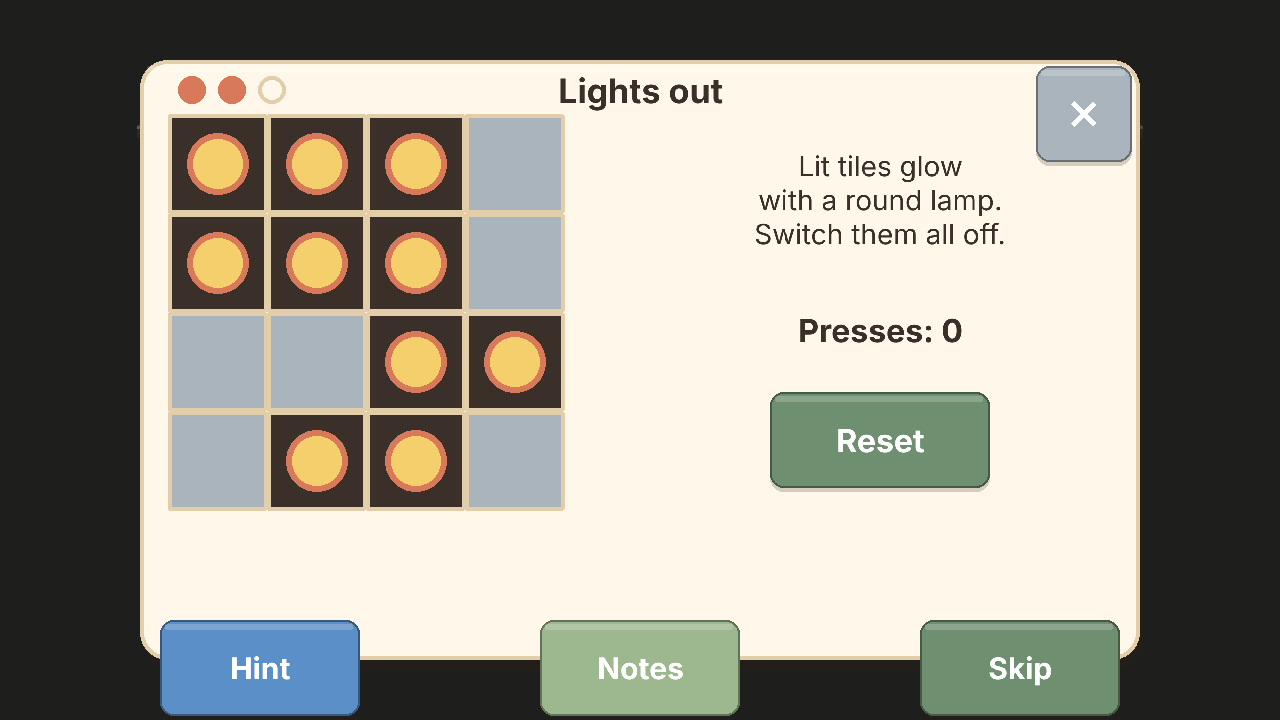
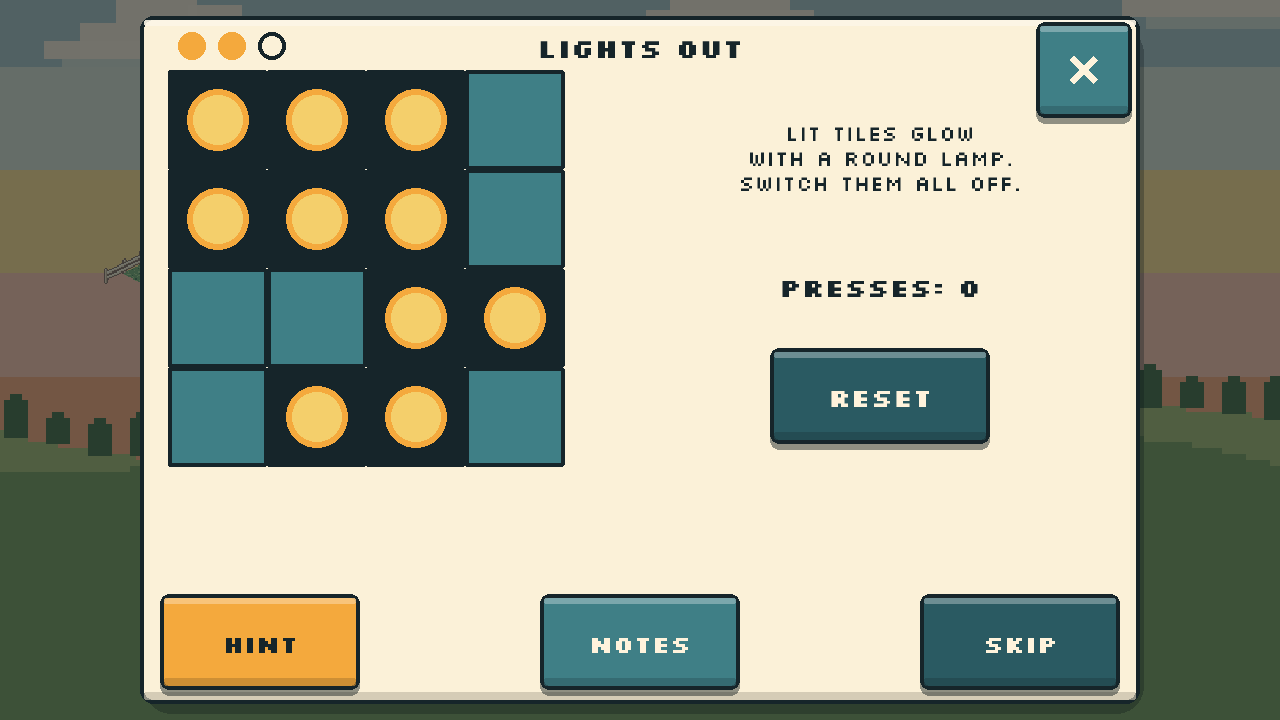
AI-1: puzzle UI skin (pixel font, theme, bar inside panel, 55% dim), 11 puzzle shots + play sheet shot, dist limit 2560 + boot payload report

diff --git a/src/puzzles/ui.ts b/src/puzzles/ui.ts
@@ -1,0 +1,102 @@
+import Phaser from 'phaser';
+import { PAL as BASE, hex, rrect, shade } from '../art/palette';
+import type { Btn, BtnOpts, G, TextOpts } from '../art/palette';
+import { COLOR, FONT } from '../ui/theme';
+
+/**
+ * Puzzle UI kit: the same names the puzzle scenes always used (PAL, makeText, makeButton, panelBox), but drawn with
+ * the game's pixel font and the teal/amber theme from src/ui/theme.ts instead of the old system-font look.
+ * Only the chrome colours are re-mapped; piece colours (red, blue, yellow, green, rose...) stay readable and distinct.
+ */
+export { circle, line, poly, rotPts, rrect, shade, hex } from '../art/palette';
+export type { Btn, G } from '../art/palette';
+
+export const PAL = {
+  ...BASE,
+  ink: COLOR.ink,
+  inkSoft: 0x4d6a6c,
+  cream: COLOR.cream,
+  panel: COLOR.paper,
+  panelEdge: COLOR.plateEdge,
+  terracotta: COLOR.amber,
+  steel: COLOR.teal,
+  sageDark: COLOR.tealLo,
+  sage: COLOR.tealHi,
+  shadow: 0x0a1518,
+} as const;
+
+/** Silkscreen runs wide, so every size is scaled to keep the existing wrap widths and layouts. */
+const TEXT_SCALE = 0.8;
+
+export function makeText(scene: Phaser.Scene, x: number, y: number, str: string, size: number, color: number = PAL.ink, o: TextOpts = {}): Phaser.GameObjects.Text {
+  const style: Phaser.Types.GameObjects.Text.TextStyle = {
+    fontFamily: FONT, fontSize: `${Math.round(size * TEXT_SCALE)}px`, color: hex(color),
+    fontStyle: o.bold ? 'bold' : 'normal', align: o.align ?? 'left', resolution: 2,
+  };
+  if (o.wrap) style.wordWrap = { width: o.wrap };
+  if (o.padX || o.padY) style.padding = { x: o.padX ?? 0, y: o.padY ?? 0 };
+  const t = new Phaser.GameObjects.Text(scene, x, y, str, style);
+  t.setOrigin(o.ox ?? 0, o.oy ?? 0);
+  scene.add.existing(t);
+  return t;
+}
+
+/** Flat pixel-style plate: dark outline, lit top edge, darker underside. Corner radius is capped so big panels stay crisp. */
+export function panelBox(g: G, x: number, y: number, w: number, h: number, r: number, fill: number, outline: number = PAL.panelEdge, lw = 4): void {
+  const rad = Math.min(r, 14);
+  rrect(g, x, y, w, h, rad, outline);
+  rrect(g, x + lw, y + lw, w - lw * 2, h - lw * 2, Math.max(0, rad - lw), fill);
+  rrect(g, x + lw, y + lw, w - lw * 2, 6, 2, shade(fill, 0.35), 0.9);
+  rrect(g, x + lw, y + h - lw - 8, w - lw * 2, 8, 2, shade(fill, -0.22), 0.7);
+}
+
+const lum = (c: number): number => (0.299 * ((c >> 16) & 255) + 0.587 * ((c >> 8) & 255) + 0.114 * (c & 255)) / 255;
+
+/** Button with a hit area of at least 96 x 96 game px (48 dp) around its centre, whatever size is drawn. */
+export function makeButton(scene: Phaser.Scene, x: number, y: number, w: number, h: number, label: string, onTap: () => void, o: BtnOpts = {}): Btn {
+  const fill = o.fill ?? PAL.terracotta;
+  const ink = o.color ?? (lum(fill) > 0.55 ? PAL.ink : PAL.cream);
+  const glyph = o.glyph ?? 'none';
+  const g = scene.add.graphics();
+  const text = makeText(scene, x, y, label, o.size ?? 24, ink, { bold: true, ox: 0.5, oy: 0.5, align: 'center' });
+  let enabled = true;
+  let down = false;
+  const draw = (): void => {
+    const dy = down ? 4 : 0;
+    g.clear();
+    g.fillStyle(PAL.shadow, 0.45);
+    g.fillRoundedRect(x - w / 2, y - h / 2 + 6, w, h, 10);
+    panelBox(g, x - w / 2, y - h / 2 + dy, w, h, 10, fill);
+    g.lineStyle(6, ink, 1);
+    const k = 12;
+    if (glyph === 'close') {
+      g.lineBetween(x - k, y - k + dy, x + k, y + k + dy);
+      g.lineBetween(x + k, y - k + dy, x - k, y + k + dy);
+    } else if (glyph === 'left' || glyph === 'right') {
+      const s = glyph === 'left' ? -1 : 1;
+      g.fillStyle(ink, 1);
+      g.fillTriangle(x - s * 12, y - 14 + dy, x - s * 12, y + 14 + dy, x + s * 12, y + dy);
+    }
+    text.setY(y + dy);
+  };
+  draw();
+  g.setData('labelText', text); // lets the e2e hook name this button by its label
+  const hw = Math.max(96, w);
+  const hh = Math.max(96, h);
+  g.setInteractive(new Phaser.Geom.Rectangle(x - hw / 2, y - hh / 2, hw, hh), Phaser.Geom.Rectangle.Contains);
+  g.on('pointerdown', () => { if (enabled) { down = true; draw(); } });
+  g.on('pointerout', () => { if (down) { down = false; draw(); } });
+  g.on('pointerup', () => {
+    if (!down) return;
+    down = false;
+    draw();
+    if (enabled) onTap();
+  });
+  return {
+    g, label: text,
+    setEnabled(on: boolean): void { enabled = on; g.setAlpha(on ? 1 : 0.45); text.setAlpha(on ? 1 : 0.45); },
+    setLabel(s: string): void { if (text.text !== s) text.setText(s); },
+    setVisible(v: boolean): void { g.setVisible(v); text.setVisible(v); },
+    destroy(): void { g.destroy(); text.destroy(); },
+  };
+}

diff --git a/tests/shots/shots.spec.ts b/tests/shots/shots.spec.ts
@@ -1,14 +1,15 @@
 import { test } from '@playwright/test';
 import type { Page } from '@playwright/test';
 import { mkdirSync } from 'node:fs';
-import { dismissHowTo, interactives, openGame, startMorning, tapMatch, waitScene } from '../e2e/helpers';
+import { dismissHowTo, interactives, openGame, openHome, startMorning, tapMatch, waitScene } from '../e2e/helpers';
 import { IMPLEMENTED } from '../../src/puzzles/manifest';
 import { PUZZLE_SCENE } from '../../src/shared/types';
 import type { PuzzleKind } from '../../src/shared/types';
 
 /** Fixed-name screenshots for the manager. Run `npm run shots` (builds first). Output: docs/shots/<name>.png and <name>-800.png. */
 const OUT = 'docs/shots';
-const SHOT_PUZZLES: PuzzleKind[] = ['untangle', 'lights', 'mastermind'];
+/** Every puzzle with a scene: they all share the shell, so the whole set shows the skin. */
+const SHOT_PUZZLES: PuzzleKind[] = IMPLEMENTED;
 const SIZES = [{ w: 1280, h: 720, suffix: '' }, { w: 800, h: 360, suffix: '-800' }] as const;
 
 /** Fails the run when the named scene is not active (and, for Home, when the old Menu is) so a shot can never show the wrong view. */
@@ -71,15 +72,28 @@ test('home overview and focus rooms (the default URL boots Home)', async ({ page
 
 for (const kind of SHOT_PUZZLES.filter((k) => IMPLEMENTED.includes(k))) {
   test(`puzzle ${kind}`, async ({ page }) => {
-    await openGame(page);
+    await openHome(page); // the real flow: the puzzle opens over the dimmed house
+    await page.waitForTimeout(1500);
     await page.evaluate((k) => window.__scatterly!.openPuzzle(k, 2, 401), kind);
     await waitScene(page, PUZZLE_SCENE[kind]);
     await dismissHowTo(page);
     await page.waitForTimeout(1200);
     await expectScene(page, PUZZLE_SCENE[kind]);
+    await expectScene(page, 'Home'); // visible, dimmed, behind the panel
     await snap(page, `puzzle-${kind}`);
   });
 }
+
+test('home play sheet (Play opens the Relaxed / Rush / Daily chips)', async ({ page }) => {
+  await openHome(page);
+  await page.waitForTimeout(1500);
+  if (!(await tapMatch(page, 'Play'))) throw new Error('shot "home-play-sheet": no Play button');
+  await page.waitForTimeout(800);
+  const labels = (await interactives(page)).map((i) => i.label);
+  for (const chip of ['Relaxed', 'Rush', 'Daily']) if (!labels.includes(chip)) throw new Error(`shot "home-play-sheet": chip ${chip} missing, got [${labels.join(', ')}]`);
+  await expectScene(page, 'Home');
+  await snap(page, 'home-play-sheet');
+});
 
 test('result', async ({ page }) => {
   await openGame(page);

diff --git a/src/puzzles/PuzzleShell.ts b/src/puzzles/PuzzleShell.ts
@@ -15,8 +15,8 @@ import type { PlayerProfile } from '../shared/types';
 import { BAR_TOP, BTN_H, NOTES_LEFT, NOTES_W, PH, PW, PX, PY } from './layout';
 import { sfx } from '../audio/sfx';
 import type { SfxName } from '../audio/sfx';
-import { PAL, makeButton, makeText, panelBox } from '../art/palette';
-import type { Btn } from '../art/palette';
+import { PAL, makeButton, makeText, panelBox } from './ui';
+import type { Btn } from './ui';
 
 export { PX, PY, PW, PH } from './layout';
 
@@ -116,7 +116,7 @@ export abstract class PuzzleShell extends Phaser.Scene {
 
   create(): void {
     this.lowFx = isLowFx(this.game);
-    this.add.rectangle(GAME_W / 2, GAME_H / 2, GAME_W, GAME_H, 0x1d130c, 0.62).setInteractive();
+    this.add.rectangle(GAME_W / 2, GAME_H / 2, GAME_W, GAME_H, 0x08141a, 0.55).setInteractive(); // the room stays visible behind, dimmed
     const g = this.add.graphics();
     g.fillStyle(PAL.shadow, 0.3);
     g.fillRoundedRect(PX + 4, PY + 10, PW, PH, 28);
@@ -128,11 +128,11 @@ export abstract class PuzzleShell extends Phaser.Scene {
     this.buttons.push(makeButton(this, PX + PW - 56, PY + 54, BTN_H, BTN_H, '', () => this.cancel(), { fill: PAL.steel, glyph: 'close' }));
     this.build();
 
-    const hint = makeButton(this, PX + 120, BAR_Y + BTN_H / 2, 200, BTN_H, 'Hint', () => this.hint(), { fill: PAL.blue, size: 30 });
-    const notes = makeButton(this, PX + PW / 2, BAR_Y + BTN_H / 2, 200, BTN_H, 'Notes', () => this.drawer?.toggle(), { fill: PAL.sage, size: 30 });
+    const hint = makeButton(this, PX + 120, BAR_Y + BTN_H / 2, 200, BTN_H, 'Hint', () => this.hint(), { fill: PAL.terracotta, size: 30 });
+    const notes = makeButton(this, PX + PW / 2, BAR_Y + BTN_H / 2, 200, BTN_H, 'Notes', () => this.drawer?.toggle(), { fill: PAL.steel, size: 30 });
     const skip = makeButton(this, PX + PW - 120, BAR_Y + BTN_H / 2, 200, BTN_H, 'Skip', () => this.askSkip(), { fill: PAL.sageDark, size: 30 });
     this.buttons.push(hint, notes, skip);
-    this.drawer = new PuzzleNotes(this, NOTES_LEFT, PY + 110, PH - 150, this.notes);
+    this.drawer = new PuzzleNotes(this, NOTES_LEFT, PY + 110, BAR_TOP - 10 - (PY + 110), this.notes);
     this.drawer.set(this.req.kind === 'code');
     this.buildHintBox();
     this.buildConfirm();

diff --git a/tests/e2e/helpers.ts b/tests/e2e/helpers.ts
@@ -82,11 +82,22 @@ export async function startMorning(page: Page, mode: 'rush' | 'relaxed' | 'daily
 }
 
 /** Closes the first-time "how to play" card of a puzzle scene if it is showing (it appears once per kind per profile). */
-export async function dismissHowTo(page: Page): Promise<boolean> {
-  await page.waitForTimeout(400);
-  const has = (await interactives(page)).some((i) => i.label === 'Got it' && i.scene !== 'Room');
-  if (has) await tapMatch(page, 'Got it');
-  return has;
+export async function dismissHowTo(page: Page, waitMs = 2500): Promise<boolean> {
+  const hasCard = async (): Promise<boolean> => (await interactives(page)).some((i) => i.label === 'Got it' && i.scene !== 'Room');
+  const until = Date.now() + waitMs;
+  let found = await hasCard();
+  while (!found && Date.now() < until) {
+    await page.waitForTimeout(250);
+    found = await hasCard();
+  }
+  // A tap right after the scene is created can arrive before its input is live: confirm the card is gone, retry if not.
+  for (let attempt = 0; found && attempt < 4; attempt++) {
+    await page.waitForTimeout(300);
+    await tapMatch(page, 'Got it');
+    await page.waitForTimeout(400);
+    if (!(await hasCard())) break;
+  }
+  return found;
 }
 
 export async function dismissCards(page: Page): Promise<void> {

diff --git a/tests/puzzle-layout.test.ts b/tests/puzzle-layout.test.ts
@@ -1,6 +1,6 @@
 import { describe, expect, it } from 'vitest';
 import { GAME_H, GAME_W } from '../src/shared/types';
-import { BAR_TOP, KEY, KEYPAD_W, NOTES_LEFT, PH, PW, PX, PY } from '../src/puzzles/layout';
+import { BAR_TOP, BTN_H, KEY, KEYPAD_W, NOTES_LEFT, PH, PW, PX, PY } from '../src/puzzles/layout';
 
 
 
@@ -42,5 +42,13 @@ describe('puzzle layout guards', () => {
   });
   it('keys are at least 96 px', () => {
     expect(KEY).toBeGreaterThanOrEqual(96);
+  });
+
+  it('Hint / Notes / Skip sit inside the panel, 96 px tall, and the panel stays on screen', () => {
+    expect(BTN_H).toBe(96);
+    expect(BAR_TOP + BTN_H).toBeLessThanOrEqual(PY + PH);
+    expect(BAR_TOP).toBeGreaterThanOrEqual(PY + 560); // below every scene's content (see the bounds above)
+    expect(PY).toBeGreaterThanOrEqual(0);
+    expect(PY + PH).toBeLessThanOrEqual(720 - 8);
   });
 });

diff --git a/src/puzzles/layout.ts b/src/puzzles/layout.ts
@@ -1,14 +1,12 @@
-import { GAME_H } from '../shared/types';
-
 /** Puzzle panel geometry in game px. Plain data (no Phaser) so tests can check it. */
 export const PX = 140;
-export const PY = 60;
+export const PY = 16;
 export const PW = 1000;
-export const PH = 600;
+export const PH = 688;
 
-/** Hint / Notes / Skip bar: 96 px tall, flush with the screen bottom. */
+/** Hint / Notes / Skip bar: 96 px tall, INSIDE the panel with a 14 px margin above the panel's bottom edge. */
 export const BTN_H = 96;
-export const BAR_TOP = GAME_H - BTN_H - 4;
+export const BAR_TOP = PY + PH - BTN_H - 14;
 
 export const KEY = 96;
 export const KEY_GAP = 6;

diff --git a/src/puzzles/MastermindScene.ts b/src/puzzles/MastermindScene.ts
@@ -3,8 +3,8 @@ import { PUZZLE_SCENE } from '../shared/types';
 import { PUZZLES, feedback } from '../logic/puzzles';
 import type { MastermindSpec } from '../logic/puzzles/mastermind';
 import { sfx } from '../audio/sfx';
-import { PAL, makeButton, makeText, panelBox } from '../art/palette';
-import type { Btn } from '../art/palette';
+import { PAL, makeButton, makeText, panelBox } from './ui';
+import type { Btn } from './ui';
 import { PuzzleShell, PX, PY } from './PuzzleShell';
 import { SYMBOL_COUNT, SYMBOL_NAMES, drawSymbol } from './Symbols';
 

diff --git a/src/puzzles/SequenceScene.ts b/src/puzzles/SequenceScene.ts
@@ -3,8 +3,8 @@ import { PUZZLE_SCENE } from '../shared/types';
 import { PUZZLES } from '../logic/puzzles';
 import type { SequenceSpec } from '../logic/puzzles/sequence';
 import { sfx } from '../audio/sfx';
-import { PAL, makeButton, makeText, panelBox } from '../art/palette';
-import type { Btn } from '../art/palette';
+import { PAL, makeButton, makeText, panelBox } from './ui';
+import type { Btn } from './ui';
 import { PX, PY, PW, PuzzleShell } from './PuzzleShell';
 import { KEYPAD_W, buildKeypad } from './Keypad';
 

diff --git a/src/puzzles/UntangleScene.ts b/src/puzzles/UntangleScene.ts
@@ -2,8 +2,8 @@ import Phaser from 'phaser';
 import { PUZZLE_SCENE } from '../shared/types';
 import type { Difficulty } from '../shared/types';
 import { sfx } from '../audio/sfx';
-import { PAL, line, makeText, rrect, shade } from '../art/palette';
-import type { G } from '../art/palette';
+import { PAL, line, makeText, rrect, shade } from './ui';
+import type { G } from './ui';
 import { PW, PX, PY, PuzzleShell, shuffle } from './PuzzleShell';
 
 const AREA = { x: PX + 80, y: PY + 150, w: PW - 160, h: 390 };

diff --git a/src/puzzles/SortScene.ts b/src/puzzles/SortScene.ts
@@ -1,8 +1,8 @@
 import Phaser from 'phaser';
 import { PUZZLE_SCENE } from '../shared/types';
 import { sfx } from '../audio/sfx';
-import { PAL, circle, line, makeText, panelBox, poly, rotPts, shade } from '../art/palette';
-import type { G } from '../art/palette';
+import { PAL, circle, line, makeText, panelBox, poly, rotPts, shade } from './ui';
+import type { G } from './ui';
 import { PW, PX, PY, PuzzleShell, shuffle } from './PuzzleShell';
 
 type Mode = 'colour' | 'shape' | 'type' | 'combo';

diff --git a/src/puzzles/CodeScene.ts b/src/puzzles/CodeScene.ts
@@ -5,8 +5,8 @@ import { PUZZLES } from '../logic/puzzles';
 import type { CodeSpec } from '../logic/puzzles/codeLock';
 import type { Fact } from '../logic/puzzles/types';
 import { sfx } from '../audio/sfx';
-import { PAL, makeText, panelBox } from '../art/palette';
-import type { G } from '../art/palette';
+import { PAL, makeText, panelBox } from './ui';
+import type { G } from './ui';
 import { PX, PY, PuzzleShell } from './PuzzleShell';
 import { KEYPAD_W, buildKeypad } from './Keypad';
 

diff --git a/src/puzzles/TargetScene.ts b/src/puzzles/TargetScene.ts
@@ -4,8 +4,8 @@ import { PUZZLES } from '../logic/puzzles';
 import { applyOp } from '../logic/puzzles/target';
 import type { Op, TargetSpec, TargetStep } from '../logic/puzzles/target';
 import { sfx } from '../audio/sfx';
-import { PAL, makeButton, makeText } from '../art/palette';
-import type { Btn, G } from '../art/palette';
+import { PAL, makeButton, makeText } from './ui';
+import type { Btn, G } from './ui';
 import { PX, PY, PW, PuzzleShell } from './PuzzleShell';
 
 const SIZE = 96;
